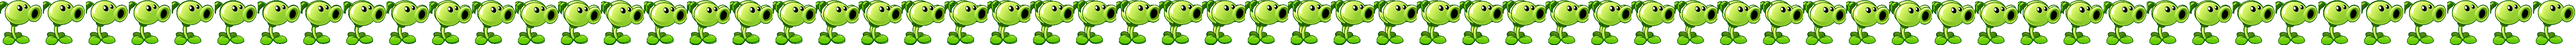
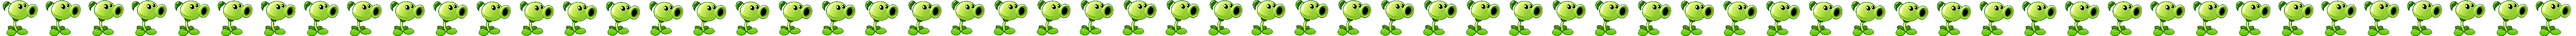
Change position of bullet when shooting

diff --git a/src/GUI/Play.java b/src/GUI/Play.java
@@ -16,10 +16,9 @@ public class Play extends BasicGameState
 	Plants shooter=new Plants();
 	Sf sunflower=new Sf();
 	Image small,background,bullet,sun,khoa;
-	SpriteSheet S1;
-    Animation S11;
-    SpriteSheet S2;
-    Animation S22;
+	SpriteSheet S1,S2;
+    Animation S11,S22;
+
     private Animation a;
     
 	private Music music1;
@@ -81,8 +80,9 @@ public class Play extends BasicGameState
 		 S1 = new SpriteSheet("res/khoa.png", 74, 73);// Sunflower 
 	     S11 = new Animation(S1, 40);				  // animatioon
 	     S11.setPingPong(true);						  // 
-	     S2 = new SpriteSheet("res/PeaShooter.png", 125,133);// Peashooter 
-	     S22 = new Animation(S2, 40);				  // animatioon
+	     S2 = new SpriteSheet("res/PeaShooter.png", 125, 106);// Peashooter 
+	     
+	     S22 = new Animation(S2, 20);				  // animatioon
 	     S22.setPingPong(true);		
 	     
 	     
@@ -116,9 +116,12 @@ public class Play extends BasicGameState
 		
 		g.drawAnimation(S11,sunflower.xPos, sunflower.yPos); // draw sunflower
 		runer.render(g,sun);
+		
 		g.drawAnimation(S22,shooter.xPos+40, shooter.yPos); // draw peashooter
 		this.count+=this.frequencyImage ;                //  print multiple images to create animation
+		
 		if(this.count>10){this.count=0;}
+		
 		g.setColor(Color.white); 
 		g.drawString("X:  "+shooter.xPos+"Y:  "+shooter.yPos,400,100);
 		//Sun Collects
@@ -159,7 +162,7 @@ public class Play extends BasicGameState
 		else if(input.isKeyPressed(Input.KEY_SPACE))                         // press space to shoot
 		{
 			controller.addBullet(new Bullet(shooter.xPos+120,shooter.yPos+25));     // bullets fly from plant position
-			
+					
 		}
 	
 		this.delayTime+=1;                                                                //system count 

diff --git a/src/Characters/Bullet.java b/src/Characters/Bullet.java
@@ -31,7 +31,7 @@ public class Bullet extends GameObject{
 	
 	public void draw(Graphics g, Image png)                  // load image
 	{
-		g.drawImage(png,(int) this.xPos+20,(int)this.yPos+34);
+		g.drawImage(png,(int) this.xPos+30,(int)this.yPos+0);
 		//g.setColor(Color.blue);
 		//g.fillOval(this.xPos, this.yPos, this.dX, this.dY);
 	}
